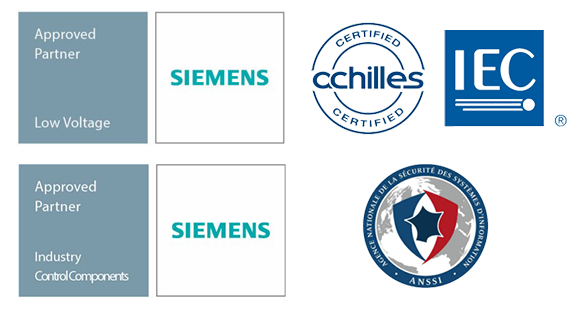
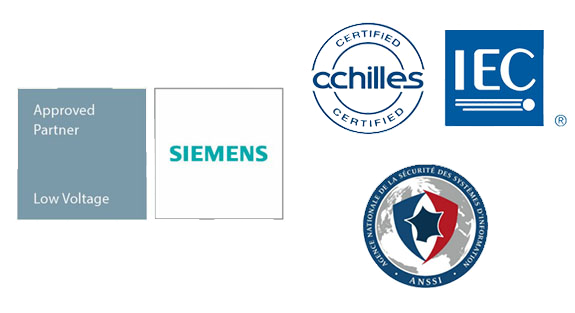
adjust last time

diff --git a/index.html b/index.html
@@ -84,7 +84,7 @@
         <div class="text col-lg-6">
 <!--           <div class="icon"><img src="img/hourglass.svg" alt="..." class="img-fluid"></div> -->
           <h4>Milsein - Siemens</h4>
-          <p>We are approved partner of Siemens in Low Voltage and Inducstry Control Components with international certificates from International Electrotechnical Commission(IEC), Achilles, and ANSSI. </p>
+          <p>Approved partner of Siemens in Low Voltage with international certificates from International Electrotechnical Commission(IEC), Achilles, and ANSSI. </p>
           <a href="#seimen" class="btn-gradient nav-link link-scroll btn-shadow link-button">
             View Products
           </a>
